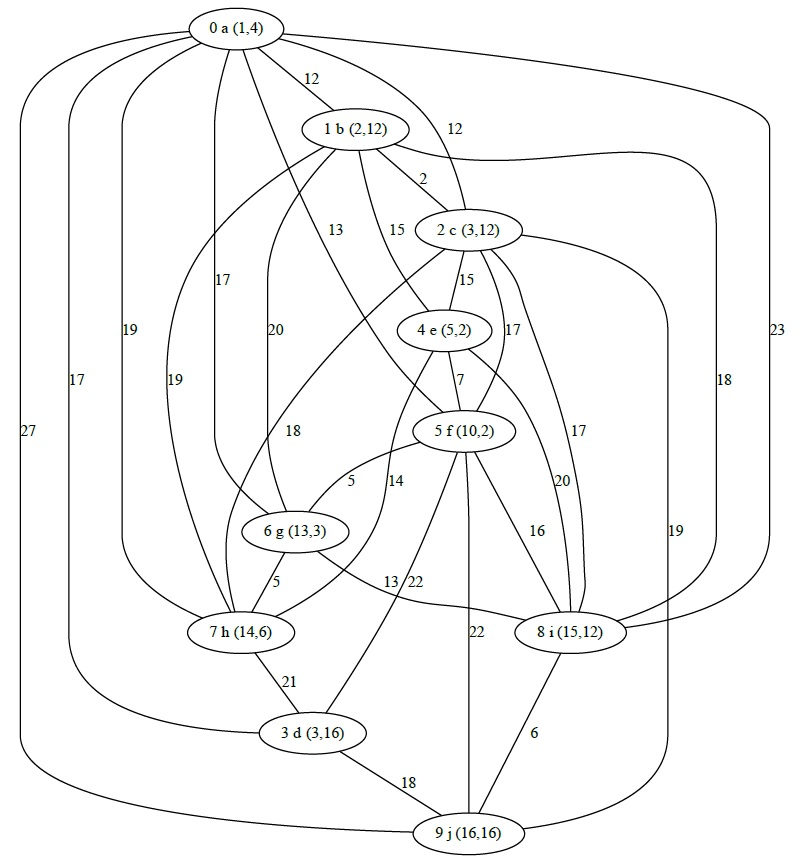
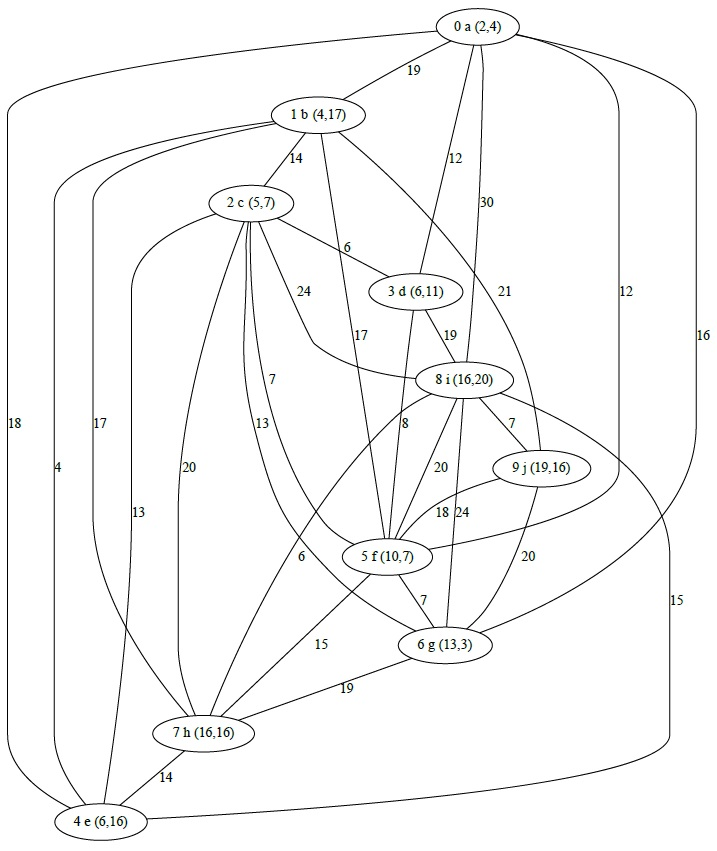
Relazione

diff --git a/relazione/appendici.tex b/relazione/appendici.tex
@@ -139,3 +139,137 @@
 	\label{fig:messaggi_macchina_rimozione}
 \end{figure}
 
+\chapter{Test Effettuati} \label{test_log_appendix}
+
+\section{Tre utenti e una macchina} \label{tre_utenti_una_macchina_test}
+\begin{lstlisting}
+4> environment:spawnCars(PID_ENV, 1).
+{spawn,cars,1}
+5> ["Car"] {"c1"} - Car ready in position ["f"]
+5> environment:spawnUsers(PID_ENV, 3).
+{spawn,users,3}
+6> ["User"] {"u1"} - I'm a new user, i'm going from ["i"] to ["h"]
+6> ["User"] {"u2"} - I'm a new user, i'm going from ["e"] to ["a"]
+6> ["User"] {"u3"} - I'm a new user, i'm going from ["b"] to ["g"]
+6> ["User"] {"u2"} - "App_User - Nearest Taxi is already running election."
+6> ["User"] {"u3"} - "App_User - Nearest Taxi is already running election."
+6> ["Car"] {"c1"} - Car Stops for client: ["i","h"] | Total Time for client: 26
+6> ["User"] {"u1"} - Taxi ["c1"] is serving me with 20 time to wait
+6> ["User"] {"u3"} - "App_User - Waited random time, going back to begin election"
+6> ["Car"] {"c1"} - Car Stops for client: ["b","f","g"] | Total Time for client: 63
+6> ["User"] {"u3"} - Taxi ["c1"] is serving me with 39 time to wait
+6> ["User"] {"u2"} - "App_User - Waited random time, going back to begin election"
+6> ["User"] {"u2"} - "App_User - No taxi has won election running election."
+6> ["User"] {"u1"} - Taxi ["c1"] is arrived in my position!
+6> ["User"] {"u2"} - "App_User - Waited random time, going back to begin election"
+6> ["User"] {"u2"} - "App_User - No taxi has won election running election."
+6> ["User"] {"u2"} - "App_User - Waited random time, going back to begin election"
+6> ["User"] {"u2"} - "App_User - No taxi has won election running election."
+6> ["Car"] {"c1"} - Arrived in user target position ["h"]
+6> ["User"] {"u1"} - I'm arrived in my target position ["h"]
+6> ["User"] {"u1"} - "I made my trip, goodbye."
+6> ["User"] {"u2"} - "App_User - Waited random time, going back to begin election"
+6> ["User"] {"u2"} - "App_User - No taxi has won election running election."
+6> ["User"] {"u3"} - Taxi ["c1"] is arrived in my position!
+6> ["User"] {"u2"} - "App_User - Waited random time, going back to begin election"
+6> ["User"] {"u2"} - "App_User - No taxi has won election running election."
+6> ["Car"] {"c1"} - Arrived in user target position ["g"]
+6> ["User"] {"u3"} - I'm arrived in my target position ["g"]
+6> ["User"] {"u3"} - "I made my trip, goodbye."
+6> ["User"] {"u2"} - "App_User - Waited random time, going back to begin election"
+6> ["User"] {"u2"} - "App_User - No taxi has won election running election."
+6> ["Car"] {"c1"} - "Battery - Triggered Solar Charging"
+6> ["User"] {"u2"} - "App_User - Waited random time, going back to begin election"
+6> ["User"] {"u2"} - "App_User - No taxi has won election running election."
+6> ["User"] {"u2"} - "App_User - Waited random time, going back to begin election"
+6> ["User"] {"u2"} - "App_User - No taxi has won election running election."
+6> ["User"] {"u2"} - "App_User - Waited random time, going back to begin election"
+6> ["Car"] {"c1"} - Car Stops for client: ["c","e","a"] | Total Time for client: 44
+6> ["User"] {"u2"} - Taxi ["c1"] is serving me with 26 time to wait
+6> ["User"] {"u2"} - Taxi ["c1"] is arrived in my position!
+6> ["Car"] {"c1"} - "Battery - Level under minimum value"
+6> ["Car"] {"c1"} - Low battery, enable path to charging: ["d","c"]
+6> ["Car"] {"c1"} - Arrived in user target position ["a"]
+6> ["User"] {"u2"} - I'm arrived in my target position ["a"]
+6> ["User"] {"u2"} - "I made my trip, goodbye."
+6> ["Car"] {"c1"} - I'm in charging column position, recharging. Current level: 0
+6> ["Car"] {"c1"} - "Battery - Level over minimum"
+6> ["Car"] {"c1"} - "Battery - Level maximum"
+\end{lstlisting}
+
+\section{Un utente più macchine}\label{log_one_user_more_cars}
+\begin{lstlisting}
+7> environment:printCars(PID_ENV).
+["Env"] {<0.219.0>} - Cars in city: ["c4","c1","c5","c2","c3"]
+{print,self,cars}
+8> environment:spawnUsers(PID_ENV, 1).
+{spawn,users,1}
+["User"] {"u4"} - I'm a new user, i'm going from ["d"] to ["e"]
+9> ["Car"] {"c1"} - Car Stops for client: ["d","c","e"] | Total Time for client: 25
+9> ["User"] {"u4"} - Taxi ["c1"] is serving me with 6 time to wait
+9> ["User"] {"u4"} - Taxi ["c1"] is arrived in my position!
+9> ["Car"] {"c1"} - Arrived in user target position ["e"]
+9> ["User"] {"u4"} - I'm arrived in my target position ["e"]
+9> ["User"] {"u4"} - "I made my trip, goodbye."
+\end{lstlisting}
+
+\section{Evento Cambia Destinazione}\label{log_change_dest}
+\begin{lstlisting}
+13> environment:spawnCars(PID_ENV, 1).
+{spawn,cars,1}
+["Car"] {"c1"} - Car ready in position ["b"]
+14> environment:spawnUsers(PID_ENV, 1).
+{spawn,users,1}
+["User"] {"u1"} - I'm a new user, i'm going from ["i"] to ["d"]
+15> ["Car"] {"c1"} - Car Stops for client: ["e","i","d"] | Total Time for client: 38
+15> ["User"] {"u1"} - Taxi ["c1"] is serving me with 19 time to wait
+15> environment:triggerEvent(PID_ENV, 3).
+["Env"] {<0.286.0>} - Event: "client change target"
+{event,3}
+16> ["Car"] {"c1"} - Car Stops for client: ["i","h"] | Total Time for client: 21
+16> ["User"] {"u1"} - I'm successfully changed my target position to ["h"]
+16> ["User"] {"u1"} - Taxi ["c1"] is arrived in my position!
+16> ["Car"] {"c1"} - Arrived in user target position ["h"]
+16> ["User"] {"u1"} - I'm arrived in my target position ["h"]
+16> ["User"] {"u1"} - "I made my trip, goodbye."
+\end{lstlisting}
+
+\section{Evento Car crash e Fix car} \label{car_crash_fix_event}
+\begin{lstlisting}
+["User"] {"u3"} - "App_User - Nearest Taxi is already running election." 
+["Car"] {"c1"} - Car Stops for client: ["i","h"] | Total Time for client: 12
+["User"] {"u1"} - Taxi ["c1"] is serving me with 6 time to wait
+["User"] {"u3"} - "App_User - Waited random time, going back to begin election" 
+["Car"] {"c1"} - Car Stops for client: ["i","f"] | Total Time for client: 36
+["User"] {"u3"} - Taxi ["c1"] is serving me with 16 time to wait
+["User"] {"u2"} - "App_User - Waited random time, going back to begin election" 
+["Car"] {"c1"} - Car Stops for client: ["a","f","h"] | Total Time for client: 75
+["User"] {"u2"} - Taxi ["c1"] is serving me with 48 time to wait
+["User"] {"u1"} - Taxi ["c1"] is arrived in my position!
+["User"] {"u1"} - I'm arrived in my target position ["h"]
+["User"] {"u1"} - "I made my trip, goodbye." 
+environment:triggerEvent(PID_ENV, 4).
+["Env"] {<0.378.0>} - Event: "car crash"
+["Env"] {<0.378.0>} - Car with name {"c1"} has punctured rubber of the car!
+["Car"] {"c1"} - "I am broken, now i notify my users and waiting for fix" 
+{event,4}
+["User"] {"u2"} - "App_User - Car Crashed" 
+["User"] {"u3"} - "App_User - Car Crashed" 
+22> ["User"] {"u3"} - "App_User - Waited random time after car crashed, going back to begin election" 
+["User"] {"u2"} - "App_User - Waited random time after car crashed, going back to begin election" 
+["User"] {"u2"} - "App_User - No taxi has won election running election." 
+["User"] {"u3"} - "App_User - Waited random time, going back to begin election" 
+["User"] {"u3"} - "App_User - No taxi has won election running election." 
+environment:triggerEvent(PID_ENV, 5).
+["Env"] {<0.378.0>} - Event: "fix car"
+["Env"] {<0.378.0>} - Car with name {"c1"} has been fixed!
+{event,5}
+["Car"] {"c1"} - "I am fixed, now I can serve again" 
+23> ["User"] {"u3"} - "App_User - Waited random time, going back to begin election" 
+["Car"] {"c1"} - Car Stops for client: ["i","f"] | Total Time for client: 26
+["User"] {"u3"} - Taxi ["c1"] is serving me with 6 time to wait
+["User"] {"u2"} - "App_User - Waited random time, going back to begin election" 
+["Car"] {"c1"} - Car Stops for client: ["a","f","h"] | Total Time for client: 63
+["User"] {"u2"} - Taxi ["c1"] is serving me with 36 time to wait
+["User"] {"u3"} - Taxi ["c1"] is arrived in my position!
+\end{lstlisting}

diff --git a/relazione/validazione.tex b/relazione/validazione.tex
@@ -16,7 +16,7 @@ Per poter eseguire il codice è necessario svolgere i seguenti passi:
 \begin{enumerate}
 	\item Scompattare il contenuto della cartella in una posizione a scelta.
 	\item Aprire un terminale e spostari all'interno della cartella root del progetto.
-	\item Eseguire il comando \lstinline |make:all().| .
+	\item Eseguire il comando \lstinline |make:all().| per compilare i file. Esso crea all'interno della cartella ``ebin'' i file necessari all'esecuzione del codice.
 	\item Eseguire il comando \lstinline |cd("ebin").| per spostarsi all'interno della cartella con i beam appena generati.
 	\item Eseguire il comando \lstinline |PID_ENV = main:start_project().| per avviare il progetto.
 \end{enumerate}
@@ -35,9 +35,105 @@ Mails: forgiarini.alessandro@spes.uniud.it, andreussi.angelo@spes.uniud.it
 5> ["Env"] {<0.220.0>} - "Environment Created"
 \end{lstlisting}
 
-\subsection{Esecuzione del codice}
+\subsection{Esecuzione del codice}\label{esecuzione_codice}
+Il modo di interazione attuale tra utente reale e sistema prevede di eseguire i diversi comandi forniti dall'entità ``Environment''. Essa fornisce un insieme di API che permettono di simulare le diverse situazioni che possono venirsi a creare in un contesto reale. Questo si è reso necessario poiché è stato creato un ambiente simulativo della realtà.
+
+Per via della convenzione utilizzata, tutti i nomi sono stringe, siano essi di nodi o di entità. Per passarli come parametro è necessario racchiuderli tra virgolette, per esempio: "aa".
+
+Come già spiegato nel punto \ref{componenti_grafo_citta}, i nomi dei nodi sono delle stringhe del tipo ``aa, ab, ...''.
+
+I nomi delle macchine sono del tipo ``c1, c2, ...''
+
+I nomi degli utenti sono del tipo ``u1, u2, ...''
+
+Per invocare i comandi,  è necessario utilizzare la seguente sintassi dalla console di Erlang:
+\begin{lstlisting}
+environment:nome_funzione(PID_ENV, Param1, ...).
+\end{lstlisting}
+Di seguito un elenco con spiegazione dei metodi forniti:
+\begin{itemize}
+	\item \lstinline |triggerEvent(PID_ENV, ID)|
+
+	Permette di scatenare nell'ambiente l'evento con ID pari a quello passato come parametro. Un elenco degli eventi disponibili è al punto \ref{env_events}.
+	\item \lstinline |triggerChangeDestUser(PID_ENV, UserName)|
+	
+	Permette di cambiare la destinazione attuale dell'utente passato come parametro con una destinazione casuale.
+	\item \lstinline |triggerChangeDestUser(PID_ENV, UserName, NewTarget)|
+	Permette di cambiare la destinazione attuale dell'utente passato come parametro con una destinazione specifica.
+	\item \lstinline |triggerCarCrash(PID_ENV, CarName)|
+	
+	Scatena l'evento di ``crash'' di una macchina con conseguente notifica agli utenti in coda e impossibilità di muoversi fino all'evento di riparazione.
+	\item \lstinline |triggerFixCar(PID_ENV, CarName)|
+
+	Scatena l'evento di ``fix'' di una macchina incidentata con conseguente possibilità di vittoria delle elezioni e trasporto degli utenti.
+	\item \lstinline |triggerCarRemove(PID_ENV, CarName)|
+
+	Se la macchina passata come parametro è nello stato ``idle'' la rimuove dal sistema, altrimenti notifica che non è stato eseguito nulla.
+	\item \lstinline |enableAutoEvents(PID_ENV)|
+
+	Abilita gli eventi casuali automatici.
+	\item \lstinline |disableAutoEvents(PID_ENV)|
+
+	Disabilita gli eventi casuali automatici.
+	\item \lstinline |printGpsState(PID_ENV)|
+	
+	Stampa lo stato interno del server gps. In tal modo è possibile sapere in quel momento dove si trovano tutte le entità.
+	\item \lstinline |printSelfState(PID_ENV)|
+
+	Stampa lo stato interno dell'entità environment.
+	\item \lstinline |printCars(PID_ENV)|
+
+	Stampa il dizionario delle macchine, vale a dire tutte le associazioni Nome - Pid nel caso delle macchine.
+	\item \lstinline |printUsers(PID_ENV)|
+
+	Stampa il dizionario degli utenti, vale a dire tutte le associazioni Nome - Pid nel caso degli utenti.
+	\item \lstinline |spawnCars(PID_ENV, N)|
+
+	Crea un numero N di entità macchina in posizione casuale all'interno della mappa.
+	\item \lstinline |spawnUsers(PID_ENV, N)|
+
+	Crea un numero N di entità utente in posizione casuale all'interno della mappa con una destinazione casuale.
+	\item \lstinline |spawnCar(PID_ENV, StartingPos)|
+
+	Crea una macchina in una determinata posizione della mappa.
+	\item \lstinline |spawnUser(PID_ENV, From, To)|	
+
+	Crea un utente con una determinata richiesta di trasporto. Egli verrà creato nel nodo ``From''.
+\end{itemize}
+
+\section{Test eseguiti}\label{test_eseguiti}
+Per poter valutare se il sistema soddisfa i requisti proposti nella parte \ref{requisiti_funzionali}, si è deciso di effettuare diversi test. La mappa utilizzata è quella presente nella parte di presentazione \ref{componenti_grafo_citta}.
+
+\subsection{Test - Un cliente una macchina}
+Il primo di essi consiste nella semplice generazione di un cliente e di una macchina casuale. Di seguito i risultati ottenuti:
+
+\begin{lstlisting}
+4> environment:spawnCars(PID_ENV, 1).
+{spawn,cars,1}
+5> ["Car"] {"c1"} - Car ready in position ["b"]
+5> environment:spawnUsers(PID_ENV, 1).
+{spawn,users,1}
+6> ["User"] {"u1"} - I'm a new user, i'm going from ["c"] to ["h"]
+6> ["Car"] {"c1"} - Car Stops for client: ["c","h"] | Total Time for client: 34
+6> ["User"] {"u1"} - Taxi ["c1"] is serving me with 14 time to wait
+6> ["User"] {"u1"} - Taxi ["c1"] is arrived in my position!
+6> ["Car"] {"c1"} - Arrived in user target position ["h"]
+6> ["User"] {"u1"} - I'm arrived in my target position ["h"]
+6> ["User"] {"u1"} - "I made my trip, goodbye."
+\end{lstlisting}
+
+\subsection{Test - Più clienti una macchina}
+Il secondo caso analizzato è il caso di più utenti che richiedono ad un unico taxi di essere serviti. Dopo aver creato un taxi vengono istanziati tre clienti. Nell'appendice al punto \ref{tre_utenti_una_macchina_test} è presente il log di come il sistema ha gestito il test. 
+
+Ci sono diverse cose da notare in esso ripercorrendo il log:
+\begin{itemize}
+	\item Il messaggio di begin election dell'utente ``u1'' è il primo giunto al taxi poiché gli altri due hanno stampato il messaggio di errore relativo al caso in cui la macchina a cui viene chiesto il servizio è già nello stato di running election.
+	\item Dopo la comunicazione da parte della macchina all'utente ``u1'' dei propri tempi di percorrenza, l'utente ``u3'' ha esaurito la propria attesa casuale per il nuovo tentativo di richiesta del servizio e, dopo aver inviato la richiesta, riceve la risposta con i tempi. 
+	\item L'utente ``u2'', essendo l'ultimo ad effettuare la richiesta, non viene soddisfatto e resta nello stato di waiting election. La macchina non risponderà in modo positivo finché non possiederà abbastanza batteria.
+	\item Dopo aver trasportato sia ``u1'' che ``u3'', la macchina continua a fare i calcoli per soddisfare 
+\end{itemize}
 
 
-\section{Test eseguiti}
+
 
 \section{Controllo requisiti}

diff --git a/relazione/conclusioni.tex b/relazione/conclusioni.tex
@@ -2,6 +2,15 @@
 %!TEX root = progetto_finale.tex
 %!TEX encoding = UTF-8 Unicode
 
-\chapter{Conclusioni}
+\chapter{Conclusioni} \label{conclusioni_progetto}
 
-What has been done with respect to what has been promised in Chapters 1 and 2, and what is left out.
+Per quanto riguarda l'analisi dei requisiti funzionali e non funzionali eseguita nel capitolo \ref{requisiti_funzionali}, il requisito numero 6, relativo alla gestione dei cambiamenti della mappa, non è soddisfatto. Infatti al momento nel caso di una modifica della topologia della mappa le macchine non vengono né notificate né rieseguono il calcolo dei percorsi. Gli altri requisiti sono stati tutti soddisfatti come dimostrato nella parte della validazione al punto \ref{test_eseguiti}.
+
+Sempre riguardo alla modifica della topologia, il codice predispone già le funzioni per la gestione: il gestore eventi dell'environment li supporta, tuttavia mancano le funzioni che modificano attivamente il grafo della città; la macchina possiede già la lista degli utenti attualmente in coda assieme alle informazioni delle loro richieste per poter calcolare quante di esse riesce a soddisfare (si faccia riferimento alla parte \ref{usersInQueue}).
+
+Per quanto riguarda il CAP Theorem, la disponibilità e la tolleranza alle partizioni vengono garantite poiché il progetto è stato implementato applicando gli stessi ragionamenti effettuati in fase di progettazione. Pertanto, quanto discusso al punto \ref{cap_theorem_definizioni}, vale ancora.
+
+Rispetto alle trasparenze, la ``location transparency'' è garantita poiché l'entità utente conosce unicamente il PID della propria applicazione. La ``failure transparency'', come mostrato nei test effettuati, il sistema trova una soluzione per garantire il servizio al cliente in modo trasparente. La ``scaling transparency'' è garantita poiché gli algoritmi progettati in fase di analisi erano fin da subito limitati nel numero dei nodi coinvolti, pertanto un eventuale aumento di essi non influisce sulle prestazioni. In questo contesto ha senso nominare anche l'attesa di un tempo casuale tra una richiesta da parte dell'app e la successiva in caso di esito negativo: in tal modo non avviene una congestione di richieste a una determinata macchina.
+
+Tutti i requisiti non funzionali definiti al punto \ref{requisiti_non_funzionali} sono soddisfatti. L'adattabilità è garantita poiché prima o poi tutti gli utenti che hanno richiesto il servizio verranno soddisfatti, si veda il test \ref{tre_utenti_una_macchina_test}. I limiti di tempo dovuti al fatto che i nodi sono in movimento, vengono tenuti a bada grazie ai timeout utilizzati in fase di elezione, si faccia riferimento alla parte \ref{timer_elezione}. La complessità algorimica sia dal punto di vista computazionale che di scambio messaggi viene limitata grazie a diverse scelte progettuali: per il calcolo dei cammini minimi viene utilizzato, come già spiegato nella parte \ref{implementazione_algoritmo_elezione}, l'algoritmo di Dijkstra per i cammini minimi, inoltre la scelta della macchina migliore viene effettuata in ogni nodo prima dell'invio al nodo genitore in modo da evitare che la radice debba controllare tutti i partecipanti; il numero dei messaggi viene limitato grazie a diverse ottimizzazioni effettuate durante l'elezione, come per esempio l'invio dei risultati dell'elezione solo ai nodi che hanno partecipato attivamente nell'elezione in corso. 
+

diff --git a/relazione/implementazione.tex b/relazione/implementazione.tex
@@ -57,23 +57,23 @@ Lo script in python crea cinque file:
 	\item ``city\_map\_nodes.dat'': file testuale contenente i dati dei nodi formattati in modo da essere compatibili con la struttura creata in erlang. Un esempio è il seguente:
 	\begin{lstlisting}
 		10
-		a 0 1 4
-		b 1 2 12
-		c 2 3 12
-		d 3 3 16
-		e 4 5 2
+		a 0 2 4
+		b 1 4 17
+		c 2 5 7
+		d 3 6 11
+		e 4 6 16
 		...
 	\end{lstlisting}
 	\item ``city\_map\_graph.dat'': file testuale contenente i dati del grafo formattato in modo da essere compatibile con la libreria utilizzata in erlang. Un esempio è il seguente:
 	\begin{lstlisting}
 		10 30 undirected d
-		6 0 17
-		0 1 12
-		1 8 18
-		8 4 20
-		4 7 14
-		7 3 21
-		3 9 18
+		2 6 13
+		6 8 24
+		8 7 6
+		7 4 14
+		4 1 4
+		1 9 21
+		9 5 18
 		...
 	\end{lstlisting}
 	\item ``city\_map\_charging\_cols.dat'': file testuale contenente i dati dei nodi delle colonnine. Essi sono formattati in modo da essere compatibili con la struttura creata in erlang. Lo stile è il medesimo del file ``city\_map\_nodes.dat''.
@@ -523,10 +523,12 @@ quando viene calcolato la macchina non può vincere l'elezione.
 \end{lstlisting}
 quando viene calcolato la macchina può vincere l'elezione. La variabile QueueCar viene salvata nello stato della macchina assegnandola alla ``queueToManage'' e utilizzata dopo come già spiegato.
 
-\subsection{Gestione dei timer}
+\subsection{Gestione dei timer} \label{timer_elezione}
 Lo scopo è di gestire il caso in cui un nodo non risponda alle richieste dell'elezione. Similmente all'automa App utente, è stato utilizzato un timeout di gen\_statem, in particolare lo stesso timout\_state\ref{timerAppUtente}. 
-Il valore temporale impostato per tale timer non è una costante fissata uguale per ogni nodo partecipante all'elezione, si è valutato di impostare un valore temporale direttamente proporzionale a quanto il nodo è distante dall'iniziatore.
-Un valore che rappresenta questa distanza, benchè in modo approssimativo, è il valore TTL dei pacchetti che viaggiano nell'elezione. Infatti, ogni nodo partecipante all'elezione può stimare la sua distanza col TTL che legge dal pacchetto ricevuto da altri nodi. 
-Si è deciso quindi di impostare il valore temporale usando una formula di questo tipo:
-TTL * slotCostante
+Il valore temporale impostato per tale timer non è una costante fissata uguale per ogni nodo partecipante all'elezione, ma varia in base al ttl ricevuto nella fase di invito alla partecipazione. Questa scelta è stata fatta seguendo la seguente logica: più un nodo si trova vicino a una foglia, più è ragionevole pensare che impieghi meno tempo a raccogliere i dati dei propri figli e selezionare il risultato migliore da inoltrare al nodo genitore.
 
+La formula applicata per il calcolo del tempo di attesa è la seguente:
+\begin{equation}
+	TempoDiAttesa = TTL * Costante
+\end{equation}
+dove costante è un valore impostato attualmente a 500ms.

diff --git a/relazione/considerazioni_finali.tex b/relazione/considerazioni_finali.tex
@@ -4,19 +4,8 @@
 
 \chapter{Considerazioni Finali}
 
-Your system will be judged mainly on how it operates as a distributed system. The primary evaluation will be according to whether your system has the following attributes:
+Non essendo stato richiesto nella consegna, non sono state gestite le situazioni in cui un processo termini bruscamente senza notificare le entità con cui sta comunicando. Si pensi alla gerarchia tra ascoltatore e automi sottostanti dell'entità macchina. Per risolvere questo problema si sarebbe potuto utilizzare i ``supervisor'' di erlang impostando l'ascoltatore come supervisore: in tal modo egli avrebbe garantito un respawn dei processi caduti.
 
-\begin{itemize}
-	\item It should be an interesting distributed system, making use of some of	the algorithms we have covered in class for distributed synchronization, replication, fault tolerance and recovery, security, etc.
-	\item The software should be well designed and well implemented, in terms of the overall architecture and the detailed realization. 
-	\item You should devise and apply systematic testing procedures, at both the unit and systems levels.
-	\item The system should operate reliably and with good performance, even in the face of failures.
-\end{itemize}
+Per una migliore comprensione dello stato durante le fasi di debugging delle diverse entità all'interno dell'ambiente, sarebbe stato opportuno sviluppare anche un'interfaccia grafica che mostri in tempo reale la posizone e le diverse interazioni tra le entità. Non è stata fatta poiché è stata presta maggiore attenzione allo sviluppo delle funzionalità che il sistema doveva offrire. 
 
-Important, but secondary considerations include:
-
-\begin{itemize}
-	\item Time taken to do the project (the sooner the better, but do not miss details in order to end sooner)
-	\item How nice is the application's appearance: does it have a nice interface or a compelling visual display?
-\end{itemize}
-
+Similmente, per un'applicazione reale del sistema sarebbe stato opportuno sviluppare un interfaccia grafica per l'applicazione dell'utente. Come precedentemente detto, l'attenzione è stata concentrata sulla gestione degli eventi e delle diverse casistiche che il sistema deve supportare rispetto alle interfaccia di utilizzo.

diff --git a/relazione/introduzione.tex b/relazione/introduzione.tex
@@ -39,7 +39,7 @@ Le componenti individuate nella modellazione del problema sono principalmente tr
 
 Per chiarezza, l'ambiente sopperisce alla mancanza di fattori presenti in un contesto reale: schede di rete che permettano connessioni wireless tra macchine, eventi casuali che possano causare diversi tipi di errori nel sistema, sostituzione di una macchina, variazione dei clienti. In tal senso, l'ambiente non offre nessun servizio alle altre entità equiparabile a quello di un server, se non quelli ottenibili tramite i fattori appena descritti.
 
-\section{Architettura}
+\section{Architettura}\label{intro_architettura}
 
 L'architettura scelta per il progetto è quella peer-to-peer, quindi le macchine comunicano fra di loro in una rete mesh, con nodi idem-potenti, attraverso scambi di messaggi tramite connessioni affidabili (ossia reti che utilizzano ack per una conferma di ricezione e ritrasmissione in caso di errore).
 

diff --git a/relazione/analisi.tex b/relazione/analisi.tex
@@ -81,7 +81,7 @@ Le trasparenze sono già state discusse nell'introduzione al punto \ref{intro_tr
 	\item Limiti di tempo: data la possibilità della disconnessione del grafo delle comunicazioni tra veicoli, è necessario definire un limite temporale per l'elezione del leader.
 \end{itemize}
 
-\subsection{CAP Theorem}
+\subsection{CAP Theorem}\label{cap_theorem_definizioni}
 Come conseguenza del CAP Theorem, e quindi dell'impossibilità di garantire consistenza, disponibilità e tolleranza alle partizioni assieme, si è valutato, per il progetto in esame, garantire disponibilità e tolleranza alle partizioni.
 
 Riguardo la consistenza, è necessario considerare due grafi: mappa della città e mappa delle comunicazioni tra i veicoli. 
